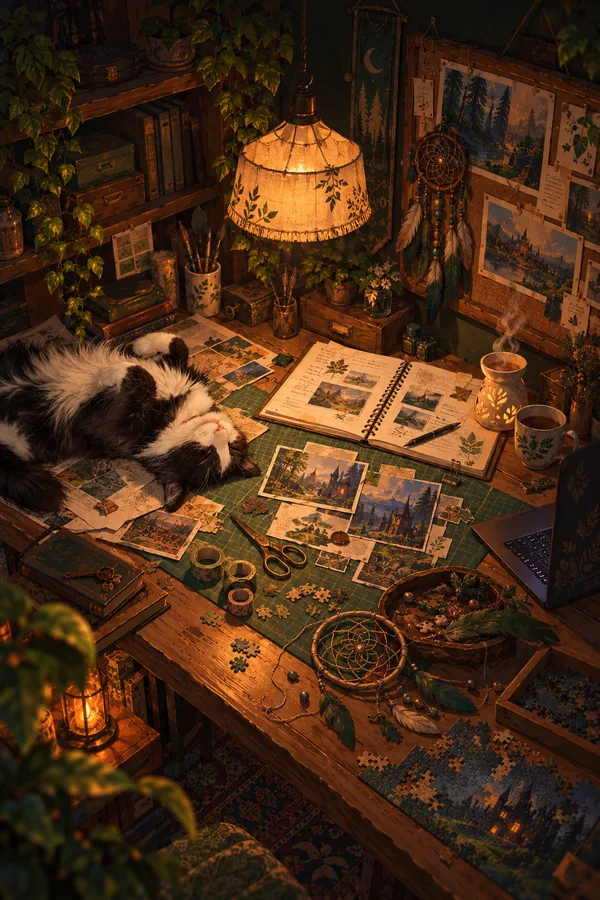
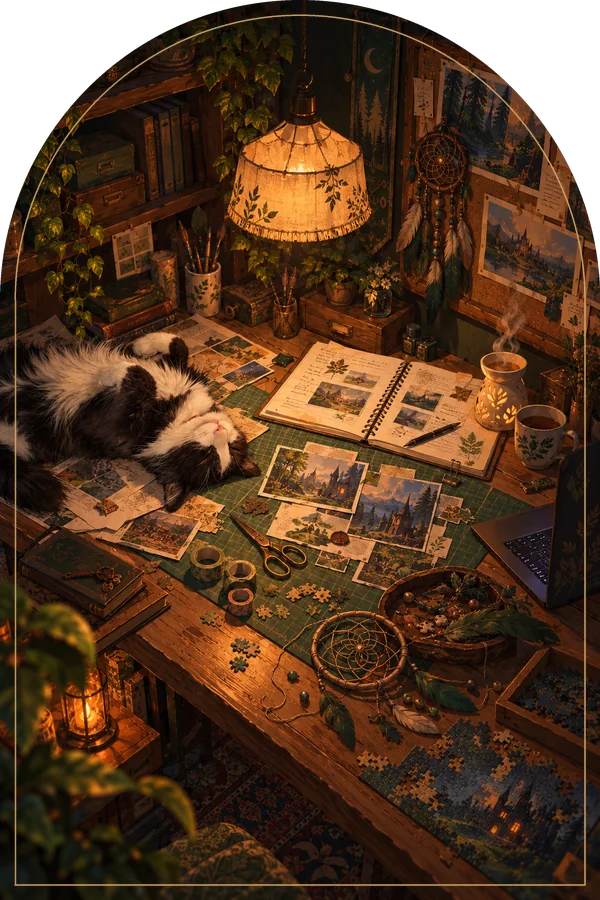
Двери: вернула арки с золотой рамкой
Claude-Session: https://claude.ai/code/session_01K3eRdzYqX1qhik79WduonQ

Changed region(s): [[0.51, 0.0, 1.0, 0.9956], [0.0, 0.0, 0.48, 0.9956]]

diff --git a/doors.html b/doors.html
@@ -9,11 +9,11 @@
 <script>
   /* ===== Двери: картинка, подпись при наведении, ссылка на страницу Notion ===== */
   window.DOORS = [
-    { img: "img/nora.webp?v=3",         name: "Лисья нора",         href: "https://www.notion.so/3e6e894fbd4a816ca067cc1cb49b2ea6" },
-    { img: "img/mediateka.webp?v=3",    name: "Каминная медиатека", href: "https://www.notion.so/3e7e894fbd4a81fcb5a1e166541f34c0" },
-    { img: "img/igrovye-miry.webp?v=3", name: "Игровые миры",       href: "https://www.notion.so/3e8e894fbd4a81c196a6d9441230a654" },
-    { img: "img/masterskaya.webp?v=3",  name: "Мастерская",         href: "https://www.notion.so/3e8e894fbd4a81d7960cdfbb5234bdde" },
-    { img: "img/cherdak.webp?v=3",      name: "Чердак",             href: "https://www.notion.so/3e6e894fbd4a81458344cc9570a01608" }
+    { img: "img/nora.webp?v=4",         name: "Лисья нора",         href: "https://www.notion.so/3e6e894fbd4a816ca067cc1cb49b2ea6" },
+    { img: "img/mediateka.webp?v=4",    name: "Каминная медиатека", href: "https://www.notion.so/3e7e894fbd4a81fcb5a1e166541f34c0" },
+    { img: "img/igrovye-miry.webp?v=4", name: "Игровые миры",       href: "https://www.notion.so/3e8e894fbd4a81c196a6d9441230a654" },
+    { img: "img/masterskaya.webp?v=4",  name: "Мастерская",         href: "https://www.notion.so/3e8e894fbd4a81d7960cdfbb5234bdde" },
+    { img: "img/cherdak.webp?v=4",      name: "Чердак",             href: "https://www.notion.so/3e6e894fbd4a81458344cc9570a01608" }
   ];
 </script>
 <style>
